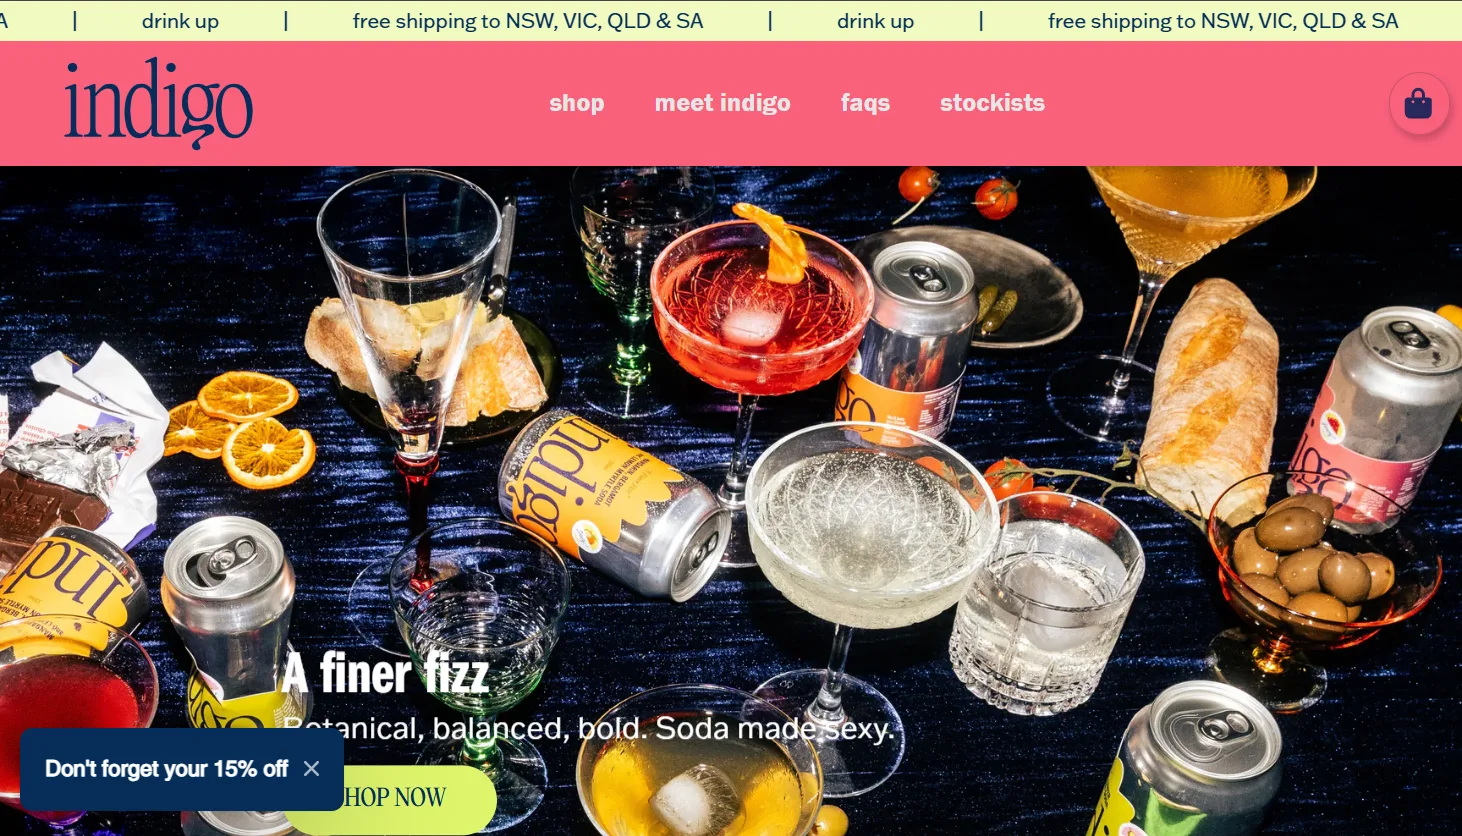
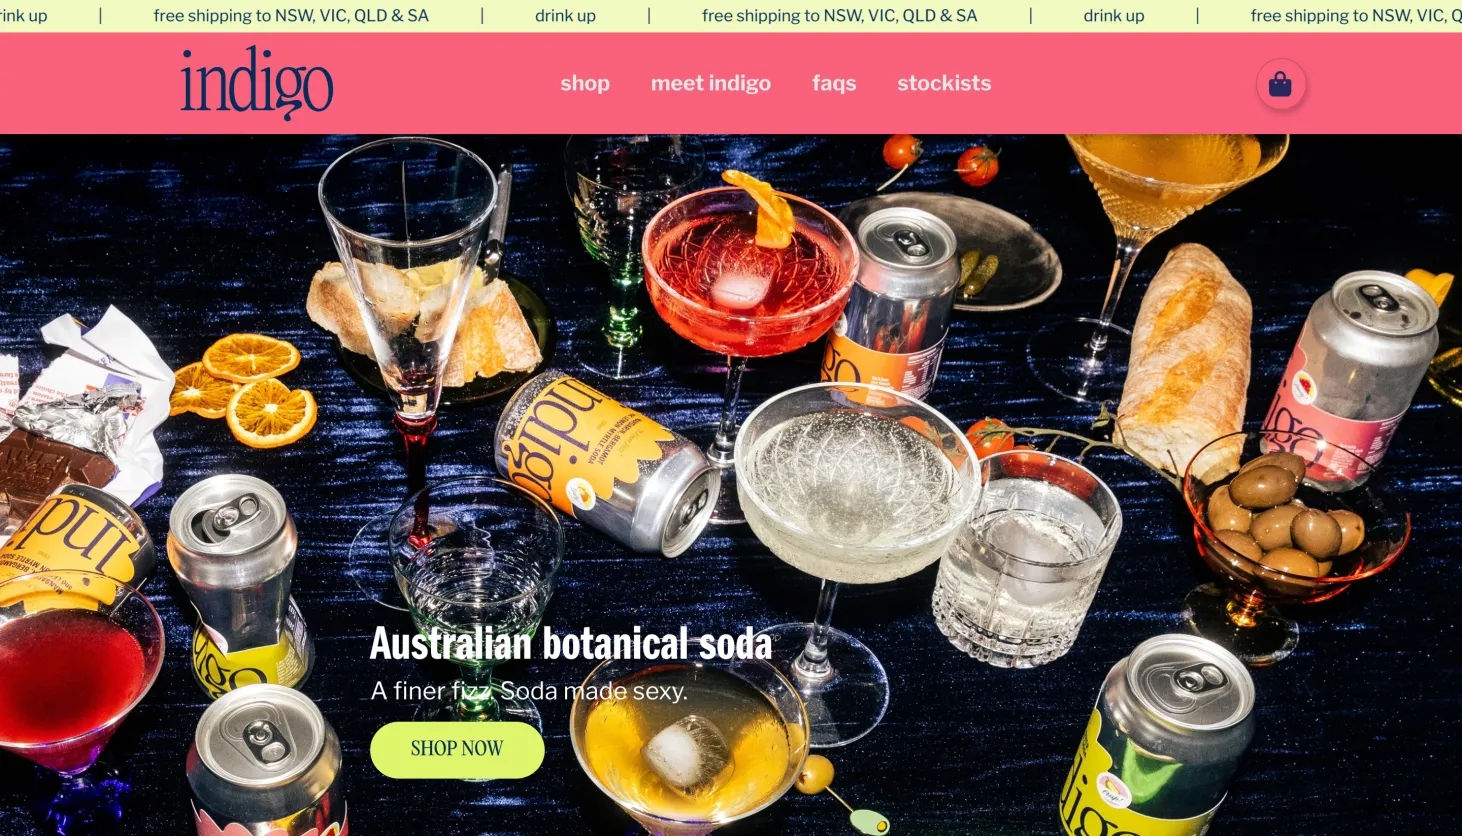
Added additional screen shots of the indigo website

diff --git a/src/components/projects/ProjectsIndex.tsx b/src/components/projects/ProjectsIndex.tsx
@@ -34,6 +34,12 @@ const ProjectsIndex = () => {
       name: "indigo",
       description: "The best drinks company ever? IYKYK.",
       mainImage: "/IndigoMainImage.webp",
+      images: [
+        "/IndigoMainImage.webp",
+        "/IndigoProducts.webp",
+        "/IndigoProductPear.webp",
+        "/IndigoProductRaspberry.webp",
+      ],
       website: "https://drinkindigo.com.au/",
       techStack: ["Liquid", "Shopify", "css3", "JavaScript"],
     },